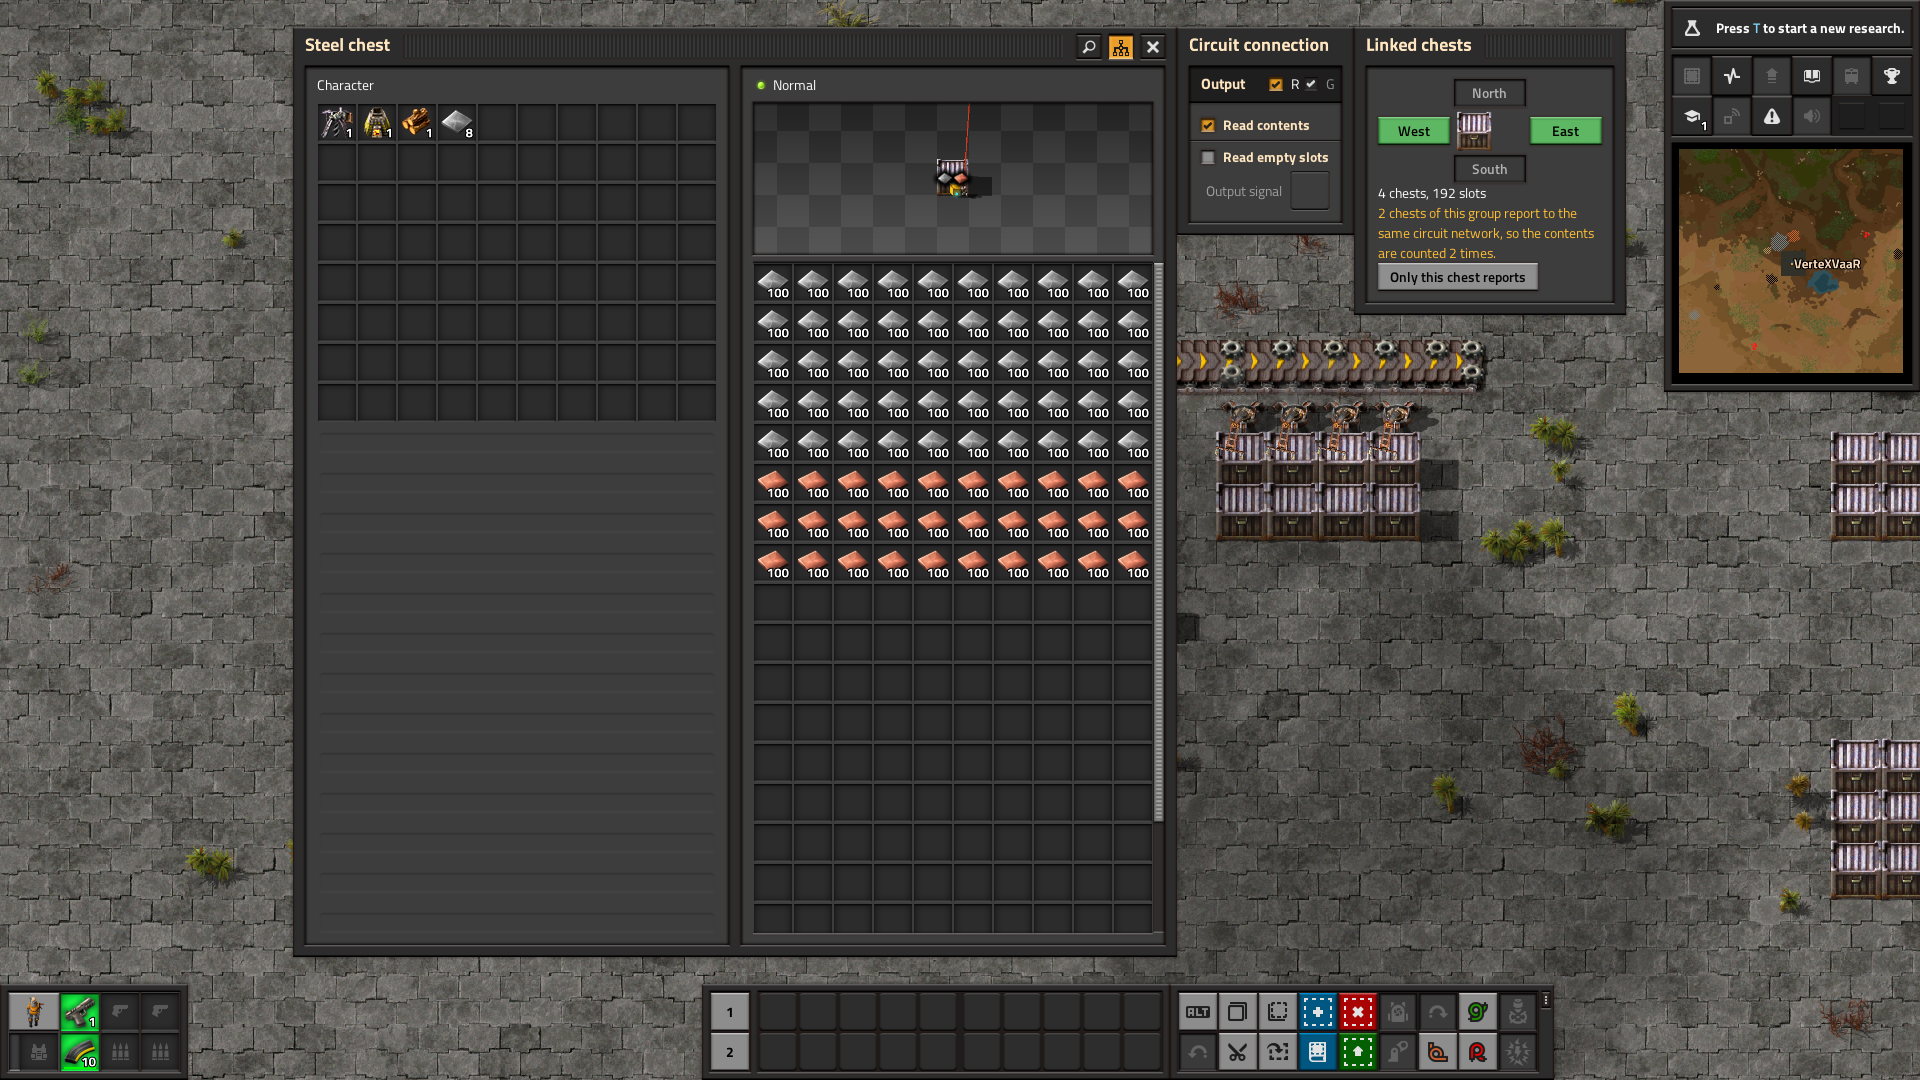
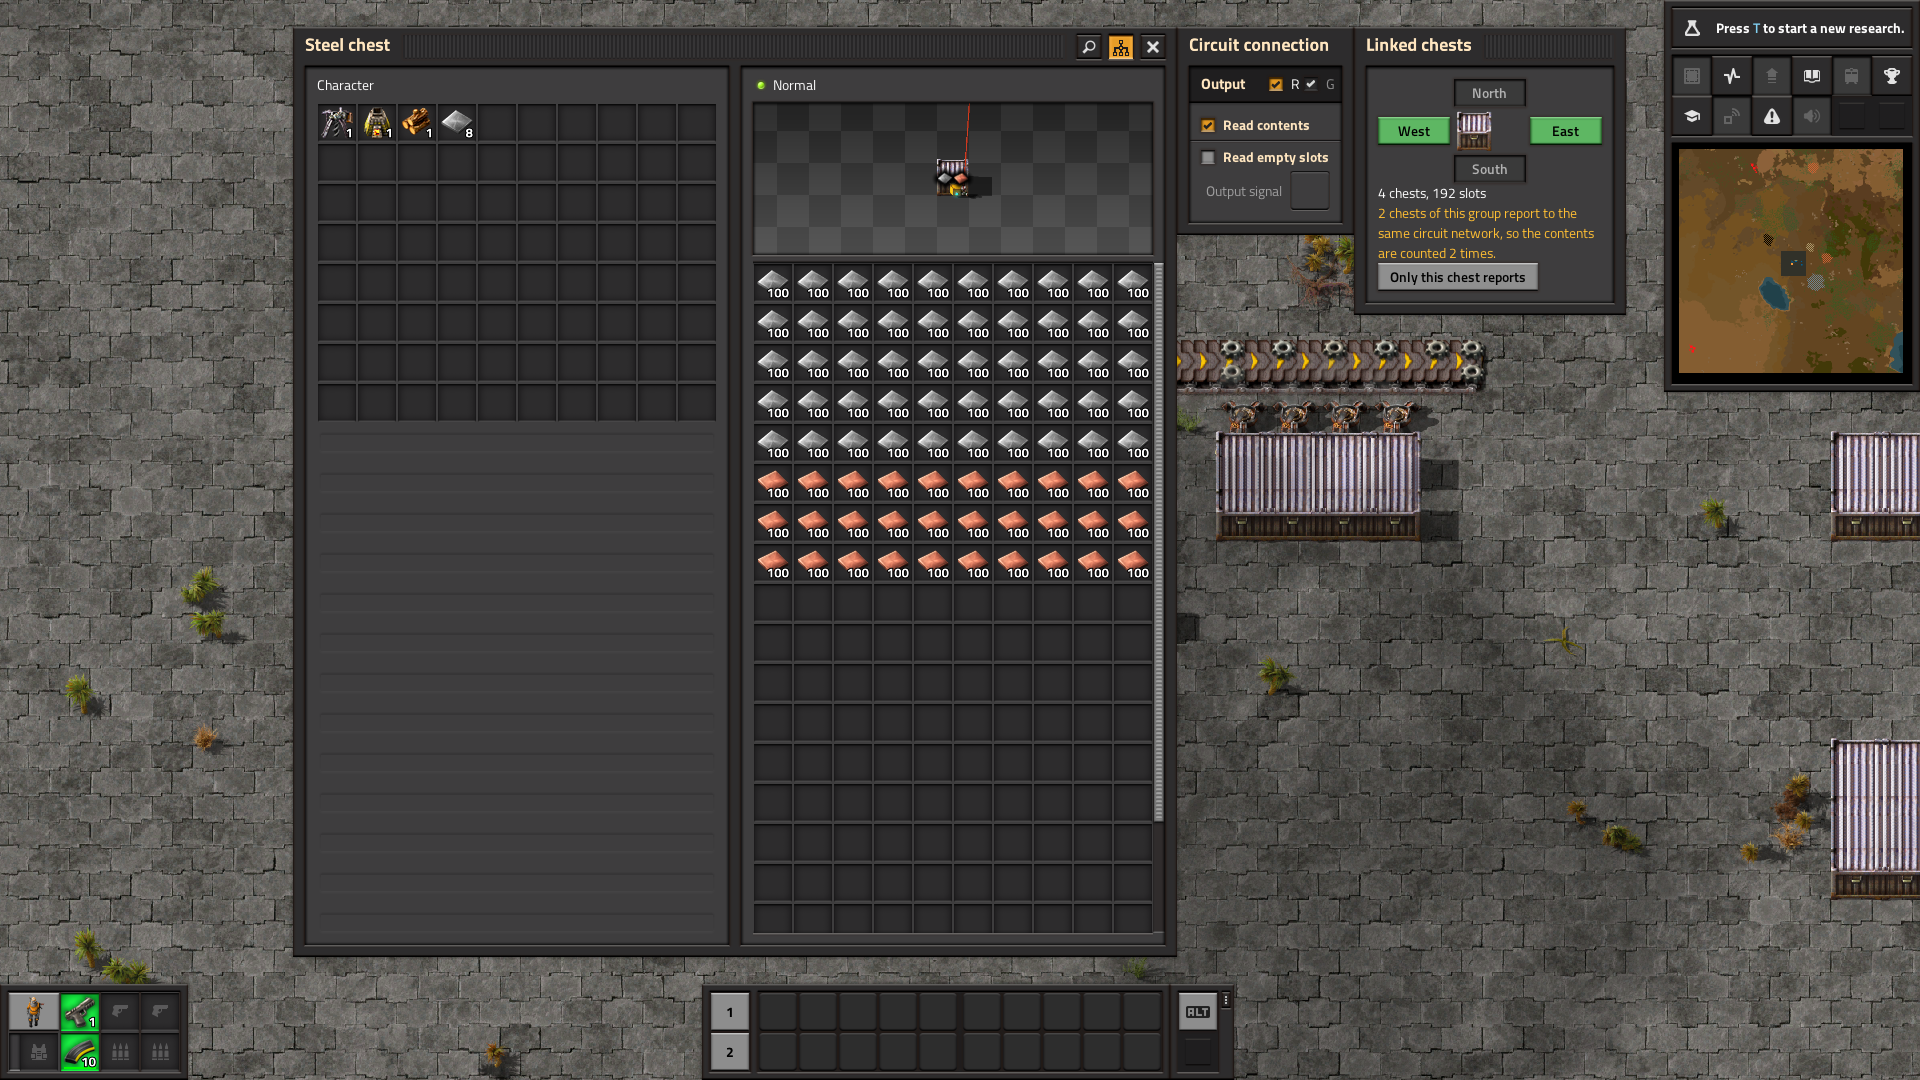
Refresh portal screenshots for 0.2.1
Retake the portal images so linked chests show the one-big-chest look, add an overview of all chest types and upload it second.

diff --git a/tools/publish.py b/tools/publish.py
@@ -23,7 +23,7 @@ SOURCE = "https://github.com/vertexvaar/factorio-expandable-chests"
 CATEGORY = "content"
 LICENSE = "default_mit"
 TAGS = ["storage", "logistics", "circuit-network"]
-IMAGES = ["previews/portal/6-overview.png", "previews/portal/1-proxy-window.png", "previews/portal/4-requester-window.png"]
+IMAGES = ["previews/portal/6-overview.png", "previews/portal/7-all-chests.png", "previews/portal/1-proxy-window.png", "previews/portal/4-requester-window.png"]
 
 
 def api_key():
